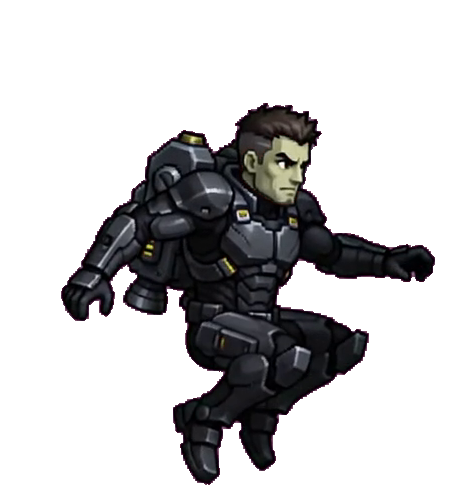
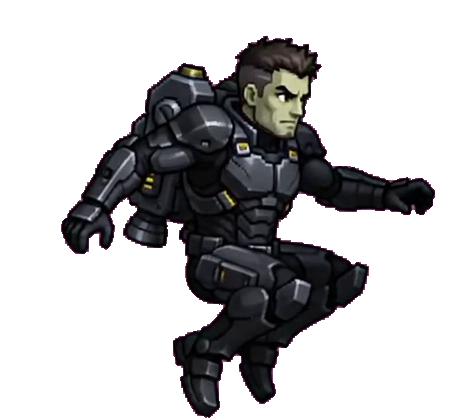
Fix TyGuy animation glitch: constant-scale clips + drop outlier frames
Two root causes of the size-popping between animations:

1) blit_char normalized each clip's FULL CANVAS to the target height, but the
   video clips have very different headroom (arms-up jump = 603px canvas, tucked
   landing = 543px), so Ty's body popped between ~47px and ~76px every time his
   state changed. Fixed by scaling every player clip against ONE shared
   reference (his idle canvas height, anim_ref) so a single constant scale
   applies -- feet stay planted, limbs extend past the canvas, size stays steady.
   Crouch clips are already crouched poses, so the extra DUCK_RATIO squish is
   dropped when clips are present.

2) Several clip frame-ranges bled into a divergent boundary frame (a stray
   muzzle/dust effect, an apex pose, the next section) that popped mid-cycle.
   cut_tyguy_anim.py now rejects per-clip outlier frames whose body height is
   far from the clip median (0.75-1.18x), keeping >=2. Re-cut drops the bad
   frames from fall/land/jump/dash/peak/roll/shoot/crouch_run/pickup.

Intra-clip pop fell from 30-46% to <=23% (rest is real motion). selftest still
prints 'selftest OK: all 5 missions win'.

Changed region(s): [[0.1204, 0.0929, 0.9333, 1.0]]

diff --git a/games/mold_mission/mold_mission.py b/games/mold_mission/mold_mission.py
@@ -319,6 +319,13 @@ class AssetPack:
             self.anims.setdefault(mo.group(1), []).append((int(mo.group(2)), key))
         for k in self.anims:
             self.anims[k] = [key for _, key in sorted(self.anims[k])]
+        # one shared reference height for ALL of Ty's clips (his idle canvas),
+        # so blit_char scales every animation by a single constant factor and he
+        # never pops bigger/smaller between states (see blit_char ref_h).
+        self.anim_ref = None
+        idle = self.anims.get("player")
+        if idle:
+            self.anim_ref = self.imgs[idle[0]].get_height()
 
     def _load(self, key):
         """Load <key>.png, or transparently reassemble it from byte-parts
@@ -361,17 +368,26 @@ class AssetPack:
             self._scaled[key] = sp
         s.blit(sp, (int(cx - dw / 2), int(cy - dh / 2)))
 
-    def blit_char(self, s, name, feet_x, feet_y, draw_h, flip=False, squash=1.0):
+    def blit_char(self, s, name, feet_x, feet_y, draw_h, flip=False, squash=1.0,
+                  ref_h=None):
         """Draw a CHARACTER sprite at a consistent size: scaled uniformly so its
         rendered height == draw_h, and anchored at the feet (bottom-centre at
         feet_x/feet_y). Unlike blit_fit this never lets a wide effect pose (a
         muzzle flash, a slide's dust) shrink the figure — height is the anchor,
         so a character keeps the same on-screen size across every pose/screen.
         `squash` <1 flattens+widens (landing splat), >1 stretches+narrows
-        (a jump / a breath) while roughly preserving volume — the juice."""
+        (a jump / a breath) while roughly preserving volume — the juice.
+
+        `ref_h` overrides the height the scale is measured against. Multi-frame
+        clips are cut onto per-clip canvases with different headroom (arms-up in
+        a jump, tucked in a landing), so normalizing each canvas to draw_h would
+        make the BODY pop bigger/smaller every state change. Passing a single
+        shared reference (the idle canvas height) applies ONE constant scale to
+        every clip — feet stay planted and limbs are free to extend past the
+        canvas, so Ty holds a steady size across his whole move-set."""
         img = self.imgs[name]
         aw, ah = img.get_size()
-        sc = draw_h / ah
+        sc = draw_h / (ref_h or ah)
         dw = max(1, int(aw * sc / squash))
         dh = max(1, int(ah * sc * squash))
         key = ("C", name, dw, dh, flip)
@@ -2454,9 +2470,19 @@ class Player:
                     name = seq[int(t * fps) % len(seq)]
                 else:
                     name = want if assets.has(want) else "player"
-                # consistent size, feet planted; ducked poses render shorter
+                # consistent size, feet planted. With the shared reference
+                # (anim_ref) every clip scales by ONE constant factor, so Ty
+                # holds a steady size across states — the crouch clips are
+                # already crouched poses, so they need no extra DUCK_RATIO
+                # squish. Only the legacy single-sprite path (no clips) still
+                # shortens a duck itself.
                 ducking = (self.crouching or self.crouch_slide)
-                dh = self.h * CHAR_H * (DUCK_RATIO if ducking else 1.0)
+                if assets.anim_ref:
+                    dh = self.h * CHAR_H
+                    ref = assets.anim_ref
+                else:
+                    dh = self.h * CHAR_H * (DUCK_RATIO if ducking else 1.0)
+                    ref = None
                 # squash on landing, stretch on the rise — classic platformer juice
                 if self.land_t > 0:
                     sq = 1.0 - 0.20 * (self.land_t / 0.14)
@@ -2467,7 +2493,7 @@ class Player:
                 # the ladder-climb pose is drawn front-on, so don't mirror it
                 assets.blit_char(s, name, cx, y + self.h, dh,
                                  flip=(self.facing < 0 and not self.climbing),
-                                 squash=sq)
+                                 squash=sq, ref_h=ref)
             else:
                 bob = abs(math.sin(self.anim * 9)) * 3 if self.on_ground else 0
                 orrect(s, (x + 4, y + 14 - bob, self.w - 8, 26), C_TEAL_DK, 6)

diff --git a/games/mold_mission/cut_tyguy_anim.py b/games/mold_mission/cut_tyguy_anim.py
@@ -90,6 +90,22 @@ def build(name, spec):
             continue
         fx, by, ty, lx, rx = foot_x(mask)
         keyed.append((rgba, fx, by, ty, lx, rx))
+    # Drop OUTLIER frames: a clip's range can bleed into a raised-arm apex, a
+    # stray muzzle/aura the chroma key couldn't strip, or the neighbouring
+    # section's pose — any of which is much taller/shorter than the rest and
+    # makes the character POP mid-animation. Since every clip renders at one
+    # constant scale (blit_char ref_h), a frame whose body height is far from
+    # the clip's median would jump; reject those (keep >=2 frames).
+    if len(keyed) >= 3:
+        bh = sorted(by - ty for _, _, by, ty, _, _ in keyed)
+        n = len(bh)
+        med = bh[n // 2] if n % 2 else (bh[n // 2 - 1] + bh[n // 2]) / 2
+        kept = [f for f in keyed if 0.75 * med <= (f[2] - f[3]) <= 1.18 * med]
+        if len(kept) >= 2:
+            if len(kept) != len(keyed):
+                print(f"  {name}: dropped {len(keyed) - len(kept)} outlier "
+                      f"frame(s) (median bodyH={med:.0f})")
+            keyed = kept
     # common canvas with feet aligned at (cx, bottom)
     halfL = max(fx - lx for _, fx, _, _, lx, _ in keyed)
     halfR = max(rx - fx for _, fx, _, _, _, rx in keyed)
